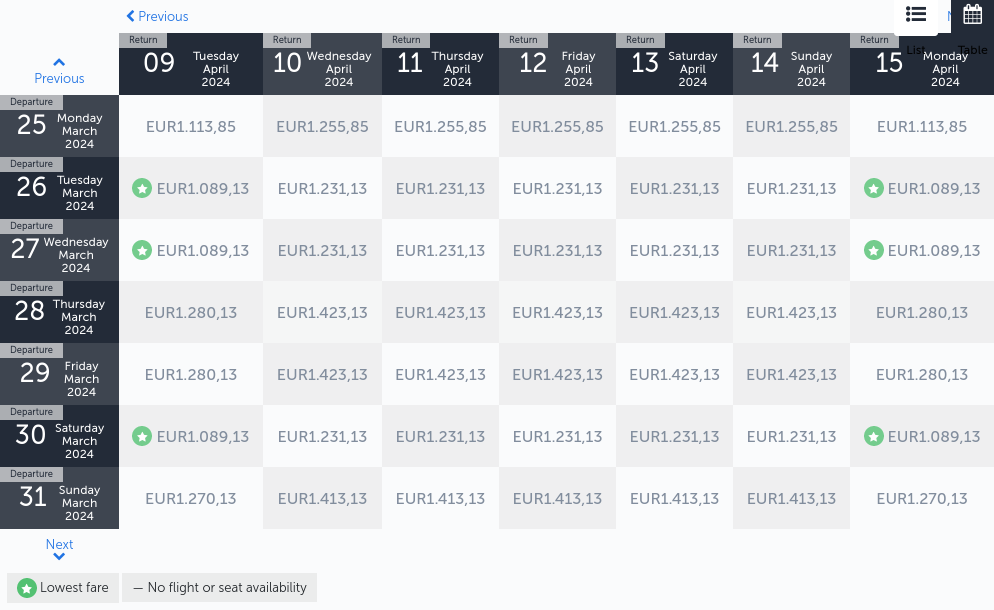
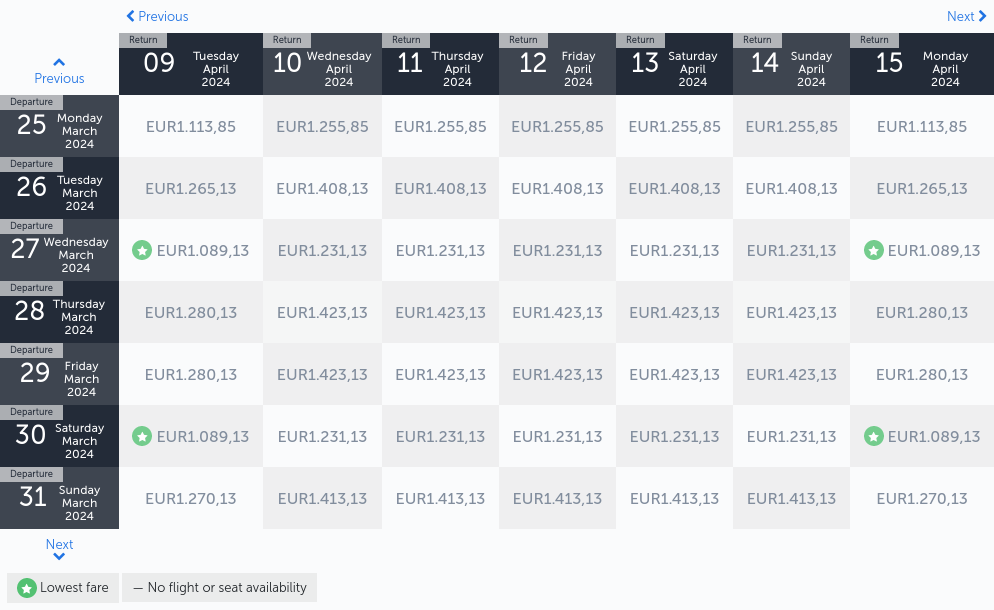
Latest scraping taiwan: Sat Jul  8 22:39:03 UTC 2023

diff --git a/scrapes/taiwan/turkish-airlines.md b/scrapes/taiwan/turkish-airlines.md
@@ -3,7 +3,7 @@
 | Previous | Return<br><br>09 Tuesday April 2024 | Return<br><br>10 Wednesday April 2024 | Return<br><br>11 Thursday April 2024 | Return<br><br>12 Friday April 2024 | Return<br><br>13 Saturday April 2024 | Return<br><br>14 Sunday April 2024 | Return<br><br>15 Monday April 2024 |
 | --- | --- | --- | --- | --- | --- | --- | --- |
 | Departure<br><br>25 Monday March 2024 | 1.113,85 | 1.255,85 | 1.255,85 | 1.255,85 | 1.255,85 | 1.255,85 | 1.113,85 |
-| Departure<br><br>26 Tuesday March 2024 | 1.089,13 | 1.231,13 | 1.231,13 | 1.231,13 | 1.231,13 | 1.231,13 | 1.089,13 |
+| Departure<br><br>26 Tuesday March 2024 | 1.265,13 | 1.408,13 | 1.408,13 | 1.408,13 | 1.408,13 | 1.408,13 | 1.265,13 |
 | Departure<br><br>27 Wednesday March 2024 | 1.089,13 | 1.231,13 | 1.231,13 | 1.231,13 | 1.231,13 | 1.231,13 | 1.089,13 |
 | Departure<br><br>28 Thursday March 2024 | 1.280,13 | 1.423,13 | 1.423,13 | 1.423,13 | 1.423,13 | 1.423,13 | 1.280,13 |
 | Departure<br><br>29 Friday March 2024 | 1.280,13 | 1.423,13 | 1.423,13 | 1.423,13 | 1.423,13 | 1.423,13 | 1.280,13 |
